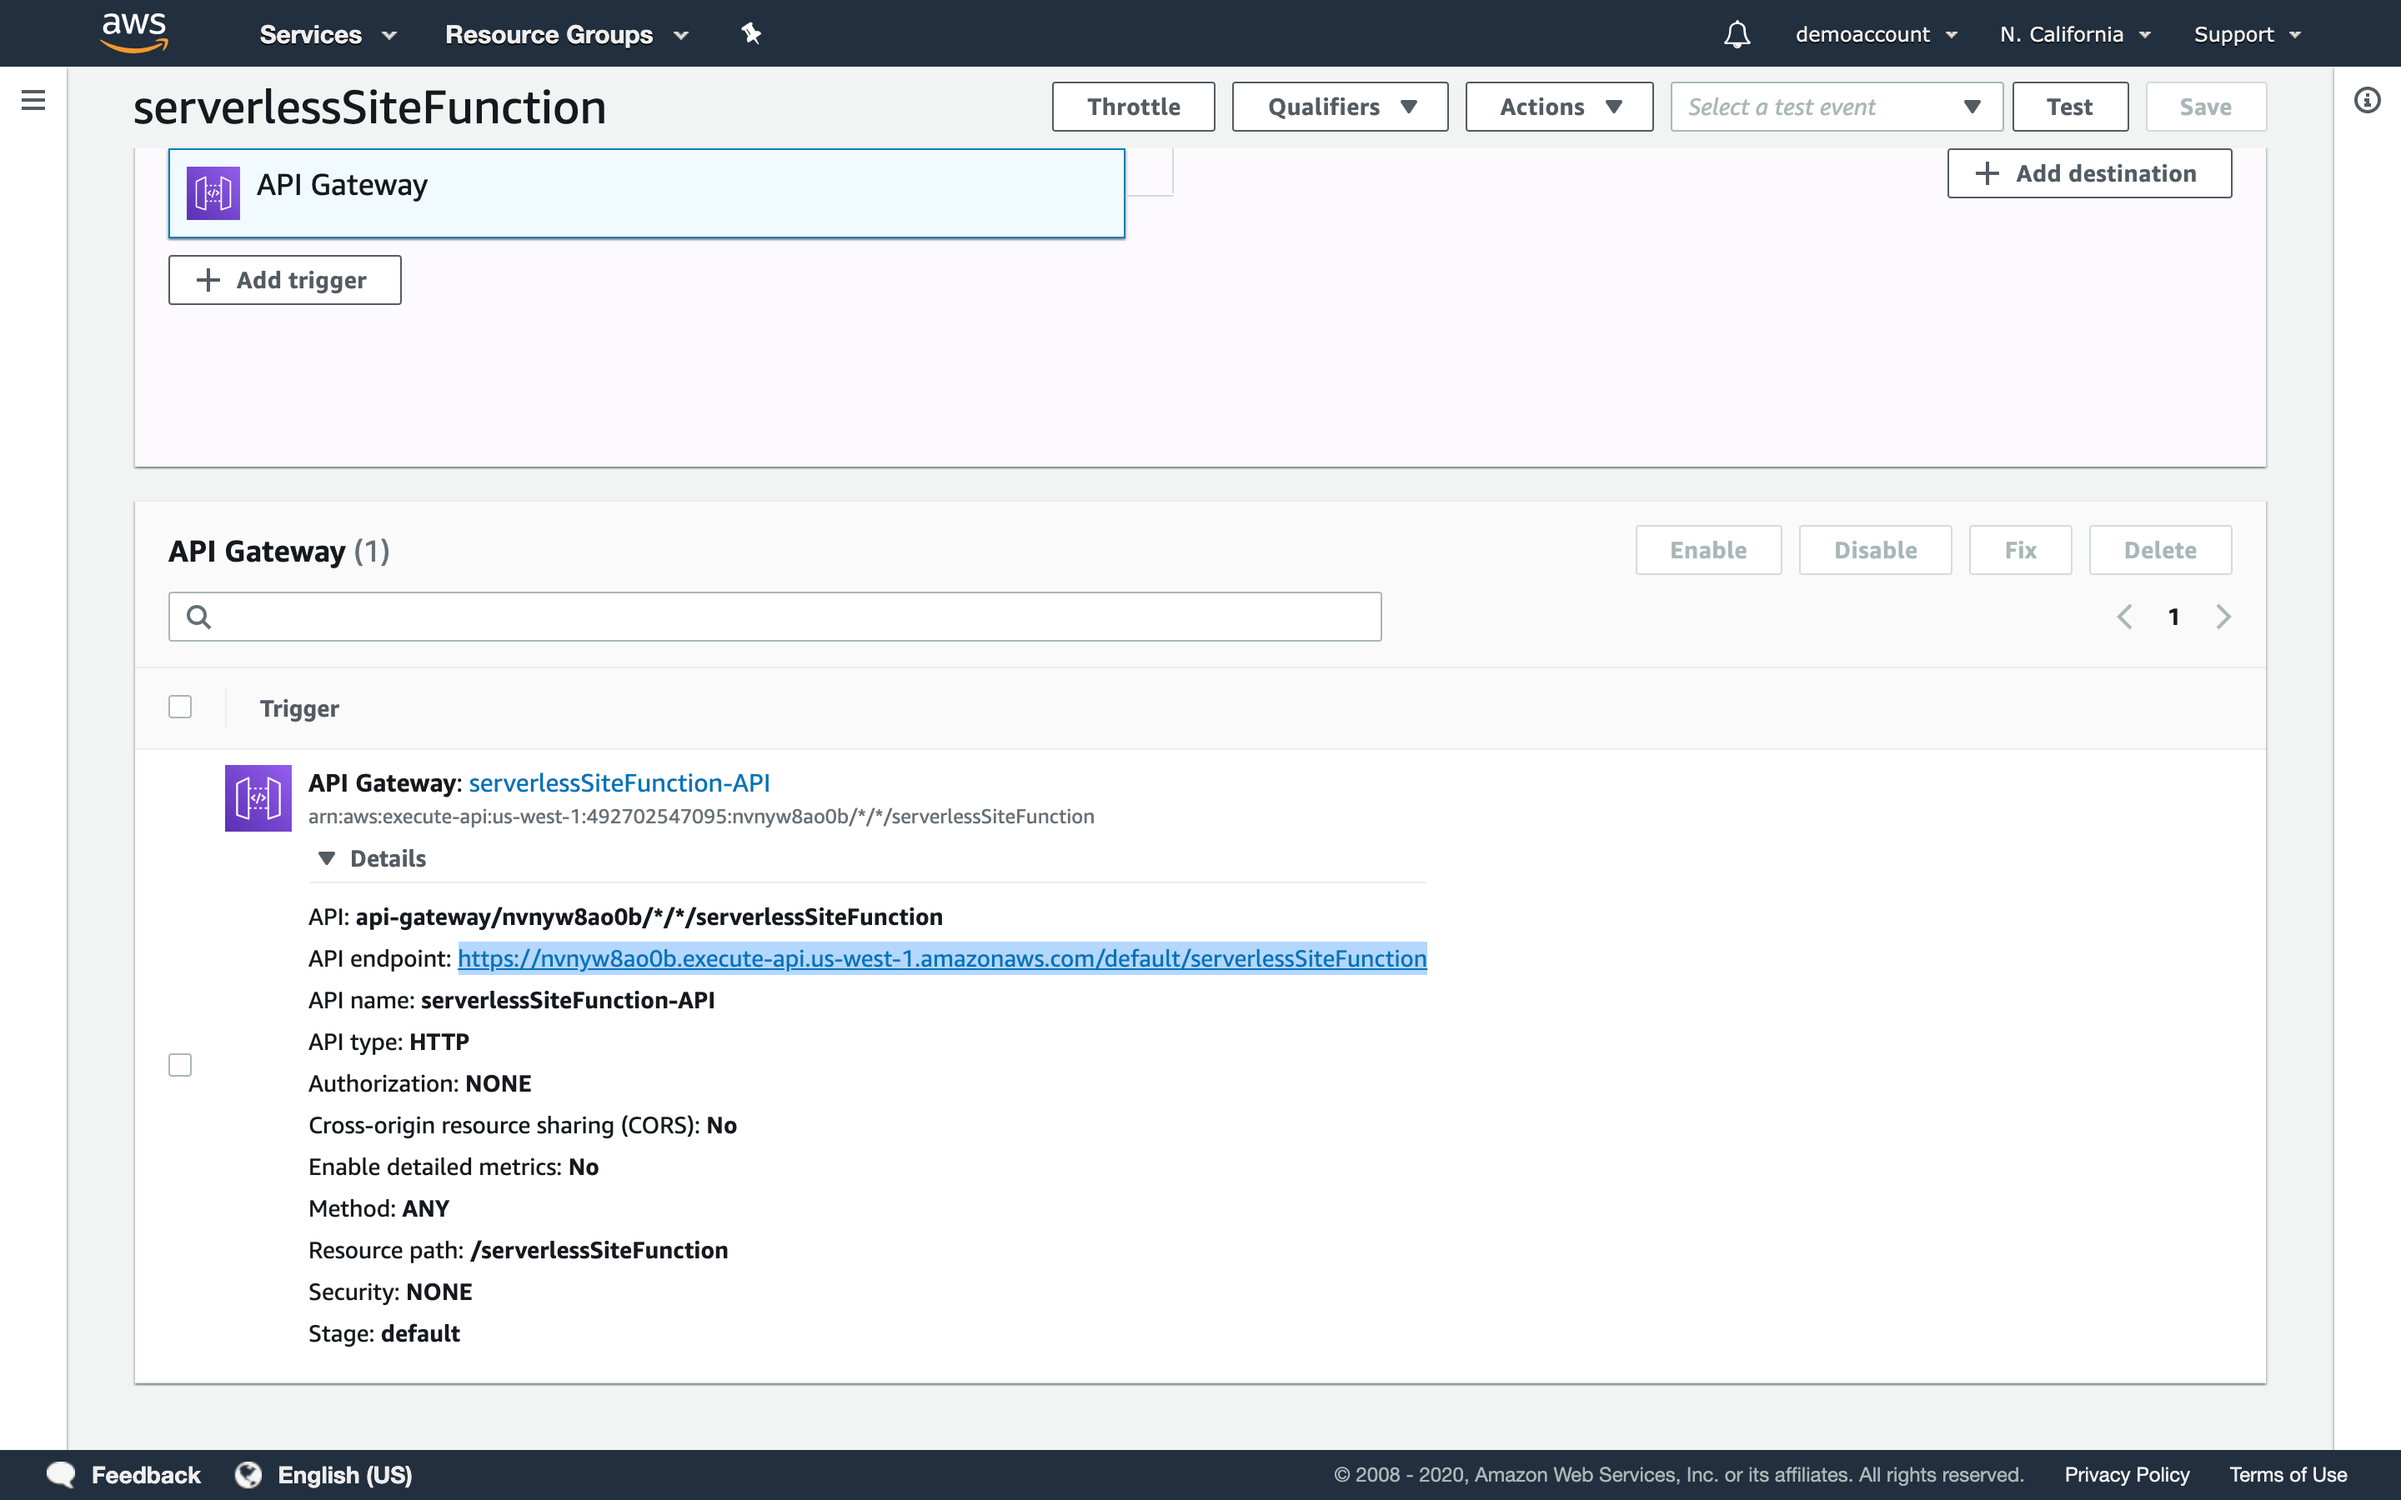
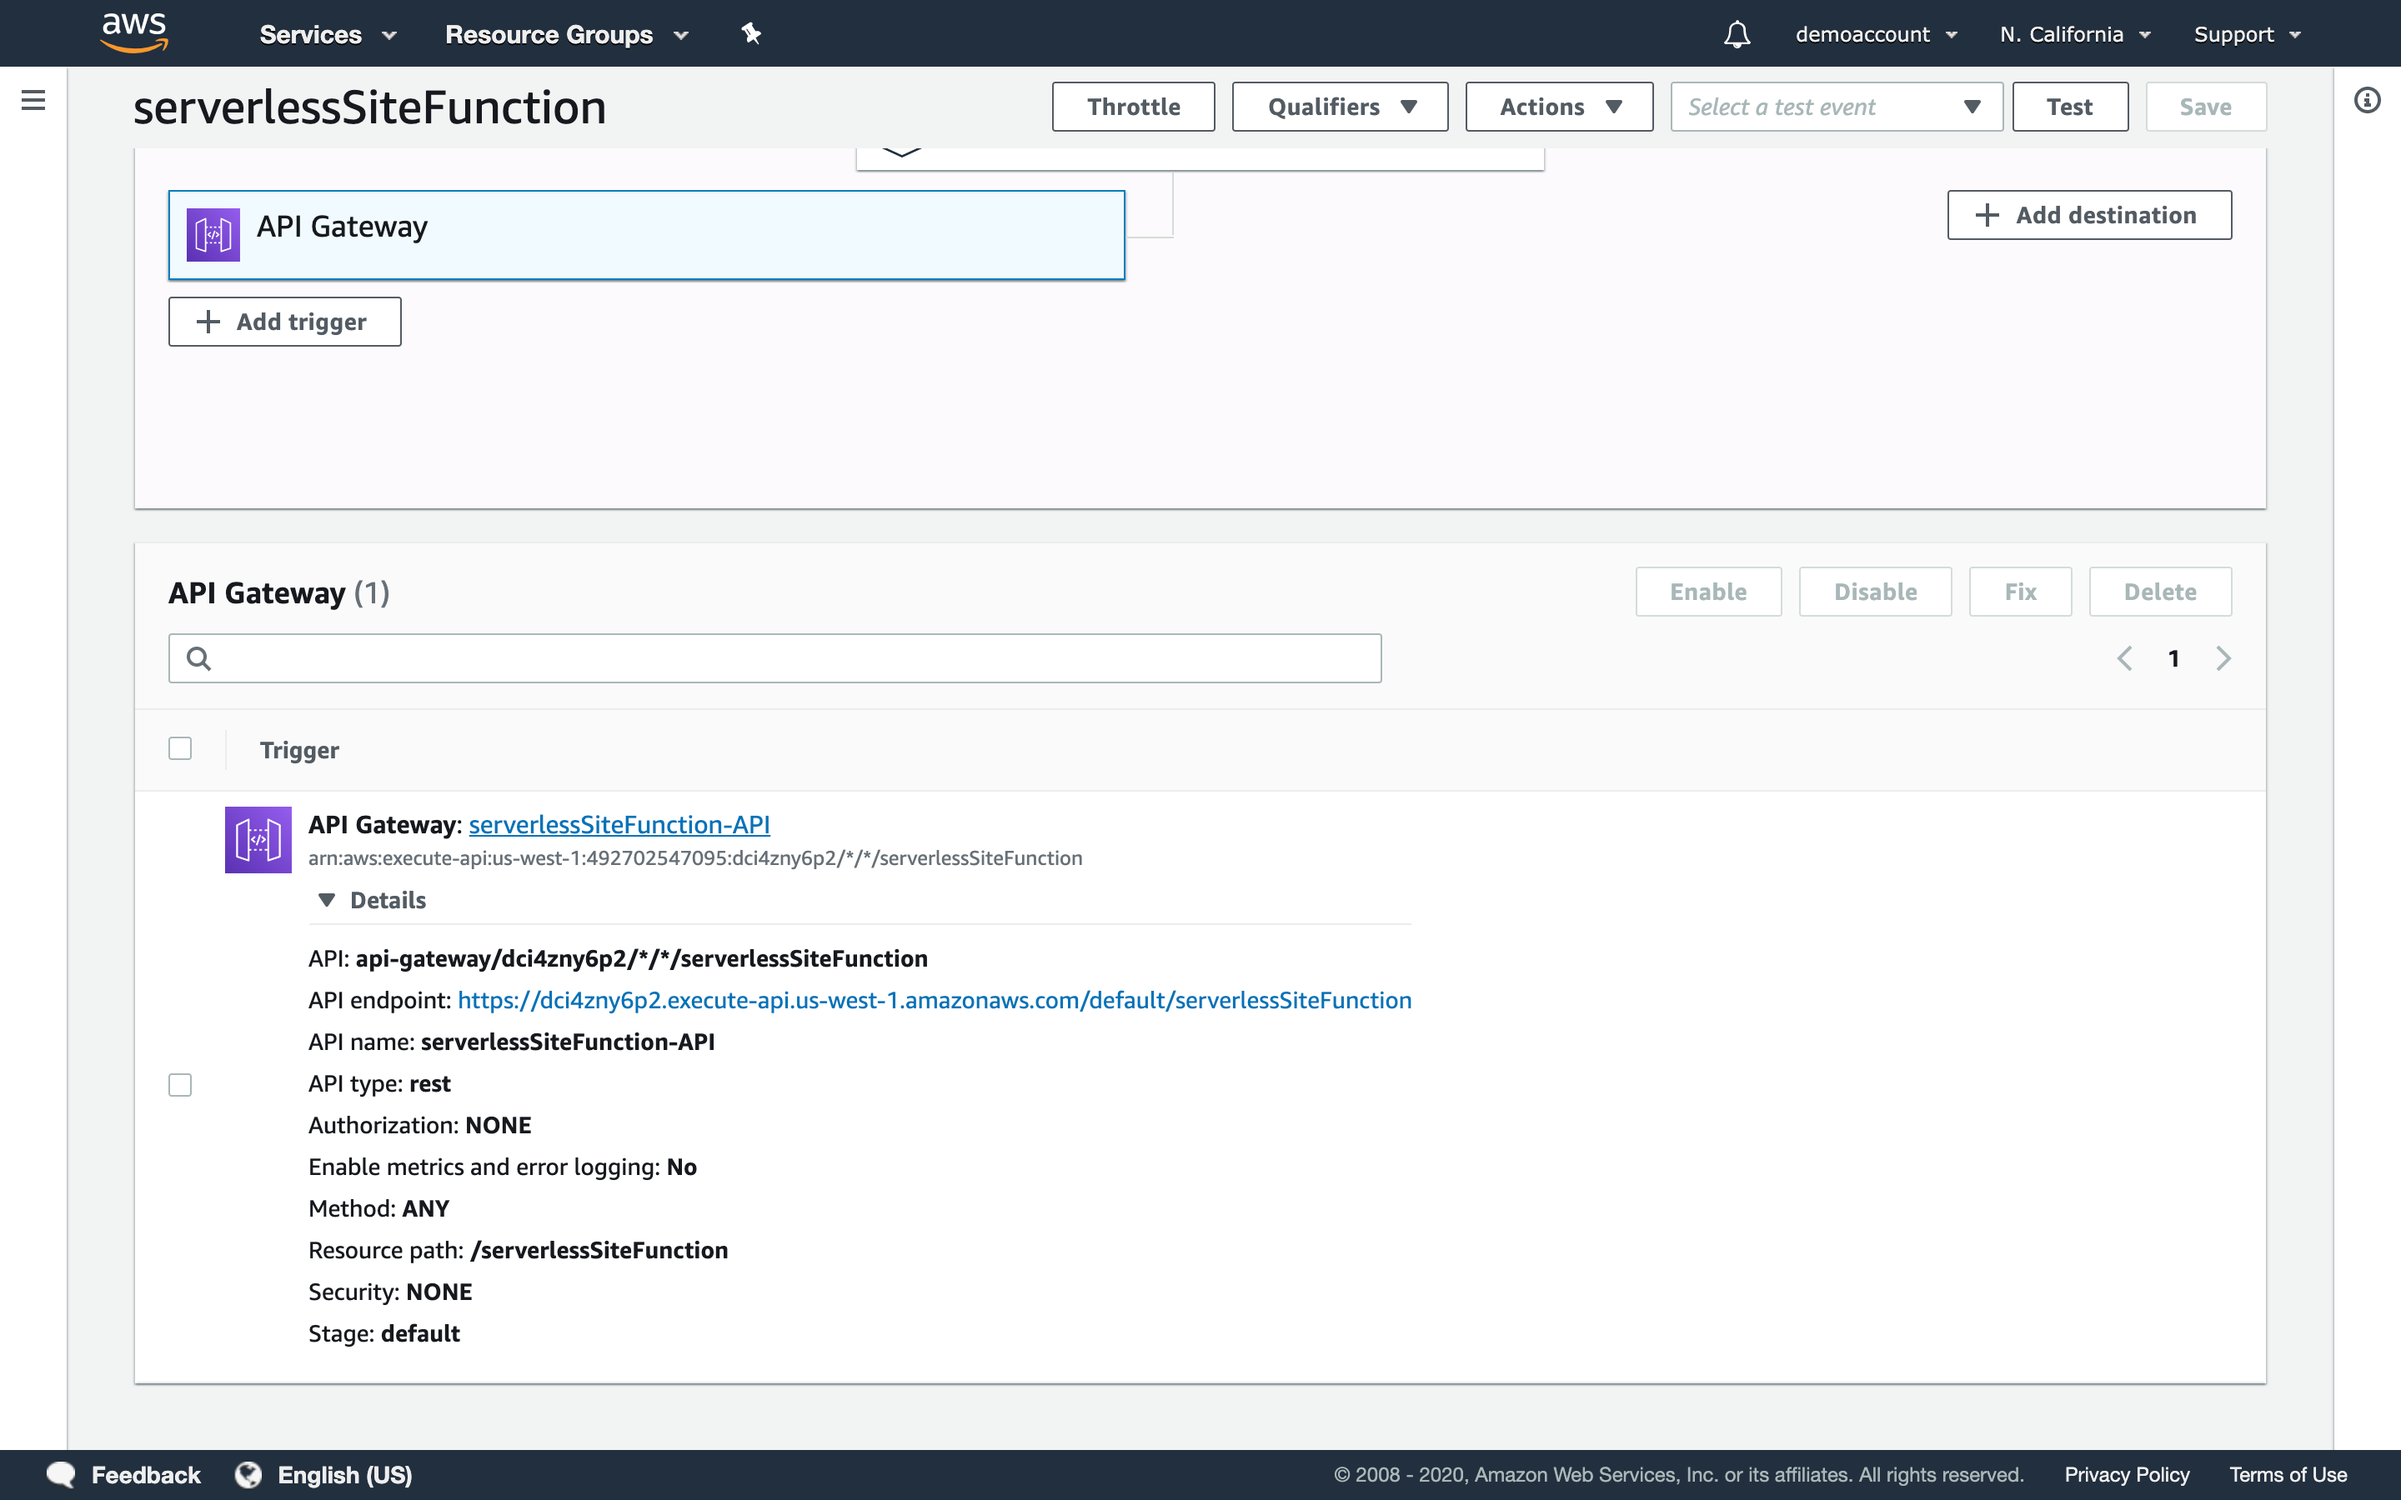
Adding content.

diff --git a/_posts/2020-09-12-serverless.md b/_posts/2020-09-12-serverless.md
@@ -49,7 +49,7 @@ In order to follow along you will need:
 - Click ***Create bucket***
 
 
-## Step 3b (Optional): Make your S3 bucket public.  
+## Step 3b (Optional): Make your S3 bucket public.
 
 If you are using an existing bucket, you must make it public in order to enable static website hosting.
 
@@ -72,7 +72,7 @@ If you are using an existing bucket, you must make it public in order to enable 
 <img src="{{ site.url }}{{ site.baseurl }}/images/2020-09-12-serverless/step3b-public-4.png" alt="AWS Screenshot" width="640">
 
 
-## Step 4: Enable Static Web Hosting
+## Step 4: Enable Static Web Hosting.
 
 - Click on the bucket name.
 
@@ -89,19 +89,18 @@ If you are using an existing bucket, you must make it public in order to enable 
 <img src="{{ site.url }}{{ site.baseurl }}/images/2020-09-12-serverless/step4-statichosting-3.png" alt="AWS Screenshot" width="640">
 
 
-## Step 5: Domain Registry (Optional)
-- Navigate to Route53
+## Step 5: Register your domain. (Optional)
 - If you haven't already, register your domain name and remember if must match the bucket name. This process can take up to 72 hours to complete, but it often finished before then. As an alernative to registering and connecting a domain name, the S3 bucket will have it's own URL.
 
 
-## Step 6: Open Lambda Console 
+## Step 6: Navigate to the Lambda console.
 
 - Navigate to Lambda by typing it into the search bar or looking under Compute Services.
 
 <img src="{{ site.url }}{{ site.baseurl }}/images/2020-09-12-serverless/step6-lambda-1.png" alt="AWS Screenshot" width="640">
 
 
-## Step 7: Create a Function
+## Step 7: Create a Function.
 
 - Click ***Create a Function.***
 
@@ -163,7 +162,7 @@ def lambda_handler(event, context):
 <img src="{{ site.url }}{{ site.baseurl }}/images/2020-09-12-serverless/step8-lambda-1.png" alt="AWS Screenshot" width="640">
 
 
-## Step 9: Add triggers
+## Step 9: Add Triggers.
 
 - Scroll back up to the ***Designer*** and click on ***Add triggers***
 
@@ -173,27 +172,43 @@ def lambda_handler(event, context):
 
 <img src="{{ site.url }}{{ site.baseurl }}/images/2020-09-12-serverless/step9-triggers-2.png" alt="AWS Screenshot" width="640">
 
-Please note, ***Security*** is left open in this demonstration, however that is not reccommend for a live site.  Please check see the [AWS best practices](https://aws.amazon.com/architecture/security-identity-compliance/?cards-all.sort-by=item.additionalFields.sortDate&cards-all.sort-order=desc) for more detail. 
+- Select ***Rest API***
+
+- ***Security*** is left open in this demonstration, however, that is not best practices. Refer to [AWS best practices](https://aws.amazon.com/architecture/security-identity-compliance/?cards-all.sort-by=item.additionalFields.sortDate&cards-all.sort-order=desc) for more information, and choose the solution that works best for your use case.
 
 <img src="{{ site.url }}{{ site.baseurl }}/images/2020-09-12-serverless/step9-triggers-3.png" alt="AWS Screenshot" width="640">
 
 
+- Click ***Add***
 
-## Step 10: Click on the hyper-linked title of your API. This which will open API Gateway. 
+
+## Step 10: Open API Gateway.
+
+- Click on the hyper-linked title of your API.
 
 <img src="{{ site.url }}{{ site.baseurl }}/images/2020-09-12-serverless/step10-api-1.png" alt="AWS Screenshot" width="640">
 
+- The link will open API Gateway as shown below.
+
+<img src="{{ site.url }}{{ site.baseurl }}/images/2020-09-12-serverless/step10-api-2.png" alt="AWS Screenshot" width="640">
+
+## Step 11: Delete the default method.
+
+- With the ***Any*** method highlighted, click on ***Actions.*** 
+
+- Click ***Delete Method*** in the drop-down menu.
+
+<img src="{{ site.url }}{{ site.baseurl }}/images/2020-09-12-serverless/step11-api-1.png" alt="AWS Screenshot" width="640">
+
+- Confirm your delete.
 
 
-### Step 12: Delete default method
+### Step 12: Create New Method.
 
-### Step 13: Create New Method
+- Click ***Actions*** and select ***Create Method*** from the drop-down menu.
 
-a. From Actions drop down menu select create new method
+- Under your function's name, a drop-down menu will be available. Click on ***Get*** and then click on the check mark next to ***Get***.
 
-b. GET from new method drop down
-
-c. click little 'tick' next to GET
 
 d. Integration type: Lambda Function
 
